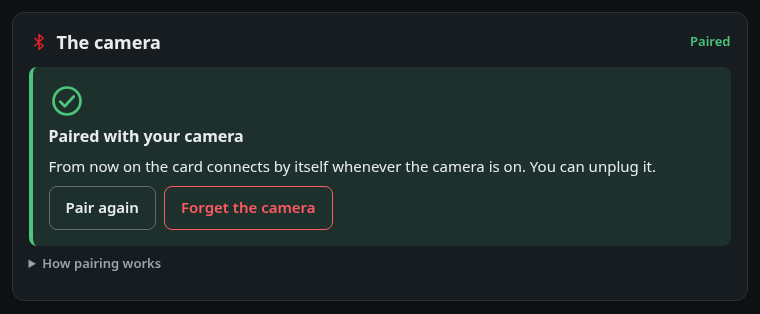
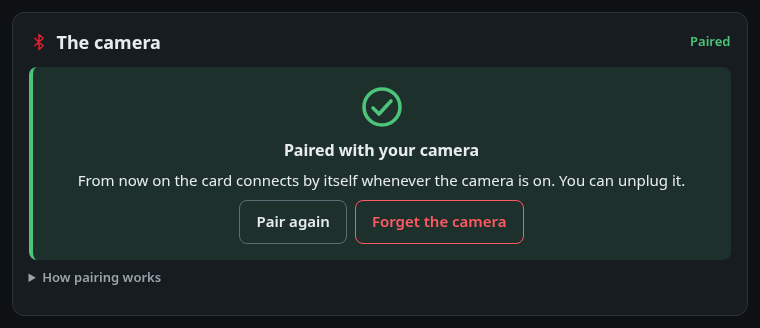
page: pairing screens after the first test with a card
From a pairing of the S5II with the app on a card:
- How pairing works is folded whenever another screen comes; opened
  by the user, it stays open while the same screen shows (before, it
  stayed open from screen to screen).
- Its fourth step says "When this screen says ...", right for the page
  and the app alike.
- The camera tile during a pairing: "See the camera section below".
- A failed pairing of a card that has a camera says "Your camera stays
  paired as before." under its reason; without one it says nothing.
- The paired panel has its mark, a little larger, and its words in the
  middle; the question before forgetting stays aligned left.

Tests for each, and app-pair-done.png shot again.

diff --git a/docs/index.html b/docs/index.html
@@ -511,8 +511,10 @@ button.big { min-height: 48px; padding: var(--s2) var(--s6); font-size: var(--fs
   border-radius: var(--radius-s);
   background: var(--edge-tint);
 }
-.done-panel { --edge: var(--good); --edge-tint: var(--good-tint); }
-.done-panel .result-icon { stroke: var(--good); }
+.done-panel { --edge: var(--good); --edge-tint: var(--good-tint); text-align: center; }
+.done-panel .result-icon { display: block; width: 48px; height: 48px; margin: 0 auto var(--s2); stroke: var(--good); }
+.done-panel .row { justify-content: center; }
+.done-panel .confirm { text-align: left; }
 .warn-panel { --edge: var(--warn); --edge-tint: var(--warn-tint); }
 .warn-panel .result-icon { stroke: var(--warn); }
 .tips { margin: var(--s2) 0 var(--s3); padding-left: 22px; }
@@ -759,6 +761,7 @@ button.big { min-height: 48px; padding: var(--s2) var(--s6); font-size: var(--fs
             </svg>
             <h3 id="failed-title"></h3>
             <p id="failed-text"></p>
+            <p id="failed-paired" class="hidden">Your camera stays paired as before.</p>
             <ul id="failed-tips" class="tips">
               <li>Start pairing on the camera only when you are told to &ndash; some cameras stay in pairing mode
                   for just 30 seconds.</li>
@@ -792,7 +795,7 @@ button.big { min-height: 48px; padding: var(--s2) var(--s6); font-size: var(--fs
                 off: a phone may grab the camera the moment it starts pairing.</li>
             <li>Click <em>Pair</em>. Do not start pairing on the camera yet: some cameras stay in pairing mode only
                 about 30 seconds, so the card must already be looking for them.</li>
-            <li>When the page says <em>Start Bluetooth pairing on the camera now</em>, start pairing in the
+            <li>When this screen says <em>Start Bluetooth pairing on the camera now</em>, start pairing in the
                 camera's Bluetooth menu. The card looks for it for up to 2 minutes and tries up to 3 times.</li>
             <li>Older cameras (LUMIX Sync generation) then need one more step, over the camera's own Wi-Fi
                 network, which only the gpxcam card app can do: the app starts it by itself and says what to do.</li>
@@ -1368,7 +1371,7 @@ const BATTERY_VERY_LOW_PERCENT = 10;
 // The card connects to the camera only with a GPS fix: the camera gets the time from it. While the camera is
 // away a while, the card looks for it with the GPS asleep (link_policy::gpsNeeded): no fix, but nothing to wait for.
 function cameraTile(state) {
-  if (state.pair !== "idle") return ["warn", "Pairing", "See The camera below"];
+  if (state.pair !== "idle") return ["warn", "Pairing", "See the camera section below"];
   if (!state.paired) return ["idle", "Not paired", "Pair it below"];
   switch (state.link) {
     case "connected": return ["good", "Connected", "Sends the position"];
@@ -2019,6 +2022,8 @@ function startPage() {
     forgetNo: element("forget-no"),
     failedTitle: element("failed-title"),
     failedText: element("failed-text"),
+    failedPaired: element("failed-paired"),
+    pairingHelp: element("pairing-help"),
     failedTips: element("failed-tips"),
     pairRetry: element("pair-retry"),
     olderBox: element("older-box"),
@@ -2082,6 +2087,7 @@ function startPage() {
   let stagesDone = 0; // of the connection (connectStages())
   let pairNote = null; // [text, kind] on the status line around a pairing (cancelled, forgotten, no answer)
   let countdownTimer = null;
+  let helpScreen = null; // the screen How pairing works was last shown on: folded again on another one
   let olderCancelled = false; // the user pressed Cancel during older-camera pairing
   let olderRunning = false; // the older-camera pairing or a Wi-Fi step is under way
   let olderRetry = false; // the last Wi-Fi step failed: it can be tried again
@@ -2211,6 +2217,7 @@ function startPage() {
     const failed = failedText(ended, endedReason);
     ui.failedTitle.textContent = failed.title;
     ui.failedText.textContent = failed.text;
+    ui.failedPaired.classList.toggle("hidden", !lastState.paired); // a failed pairing keeps the camera paired
     ui.failedTips.classList.toggle("hidden", variant !== "no-camera");
     ui.olderBox.classList.toggle("hidden", !failed.older || !canPairOlder(lastState.version));
     ui.pairOlder.classList.toggle("hidden", !inApp);
@@ -2239,6 +2246,8 @@ function startPage() {
     ui.pairBadge.className = `pair-badge${badge}`;
     showSteps(pairingSteps(screen, older));
     for (const name of PAIRING_SCREENS) element(`pair-screen-${name}`).classList.toggle("hidden", name !== screen);
+    if (screen !== helpScreen) ui.pairingHelp.open = false; // opened by the user, it stays open on this screen only
+    helpScreen = screen;
     let status = pairNote || ["", ""];
     if (screen === "prepare") showPrepare();
     else if (screen === "camera") status = showCamera(variant);
@@ -2437,6 +2446,7 @@ function startPage() {
     setStatus(ui.updatesAnswer, "");
     lastState = null;
     watchingPairing = false;
+    helpScreen = null;
     resetPairing();
     if (ui.diagStatus.className === "busy") { // a log or a scan cut short
       ui.diagProgress.classList.add("hidden");
